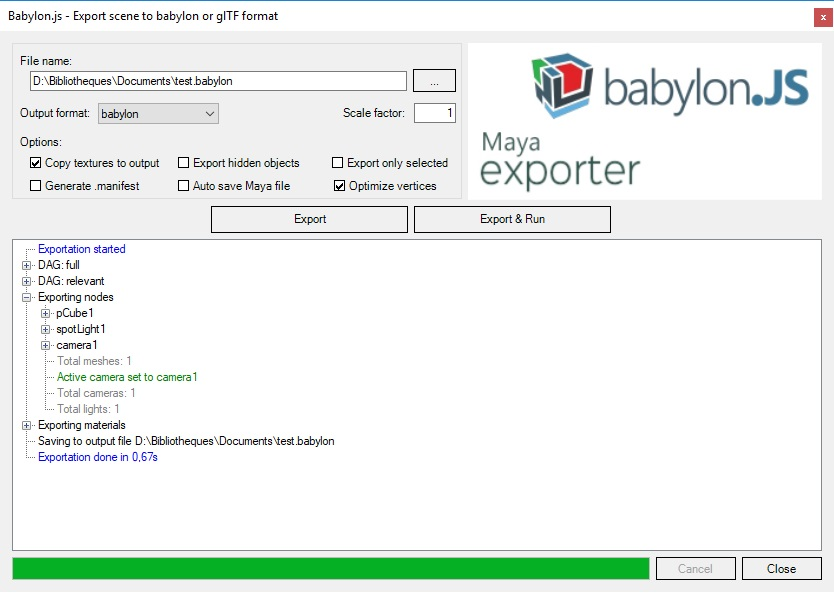
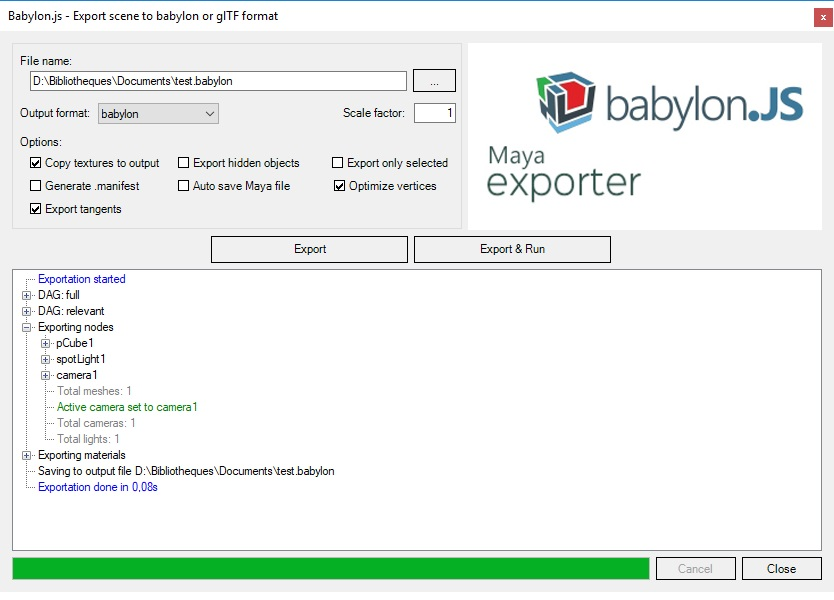
Update Maya exported features Add locator and group node sections

Changed region(s): [[0.2494, 0.09, 0.9664, 0.45], [0.0312, 0.39, 0.4053, 0.84], [0.0312, 0.33, 0.1559, 0.36]]

diff --git a/content/resources/Exporter/Maya.md b/content/resources/Exporter/Maya.md
@@ -4,7 +4,7 @@ The plug-in is designed for Maya 2018. This guide is about the Windows version (
 
 ![github](/img/exporters/Maya/1_github.jpg)
 
-In this folder, you can find the source code of the exporter if you want to update it, and a zip file _Maya2Babylon-XX.zip_ (where XX is the exporter version, currently v0.1). Click on the zip file, and click on the _Download_ button. 
+In this folder, you can find the source code of the exporter if you want to update it, and a zip file _Maya2Babylon-XX.zip_ (where XX is the exporter version, currently v1.0.7). Click on the zip file, and click on the _Download_ button. 
 
 ![github download](/img/exporters/Maya/2_github_dl.jpg)
 
@@ -29,7 +29,7 @@ Congratulations! You did it!
 * _Meshes_
     * Visibility
     * Position / rotation / scaling
-    * Geometry (position, normal, texture coordinates (2 channels))
+    * Geometry (position, normal, tangent, texture coordinates (2 channels))
 
 * _Materials_
     * Standard materials (Lambert, Phong, PhongE and Blinn)
@@ -39,7 +39,7 @@ Congratulations! You did it!
         * Bump mapping
         * Specular color and power
         * Reflected color
-    * PBR materials (Stingray PBS)
+    * PBR materials (Stingray PBS, AiStandardSurface)
         * Base color & opacity
         * Normal
         * Metallic
@@ -50,7 +50,8 @@ Congratulations! You did it!
 * _Textures_
     * UV offset / scaling / angle
     * Level
-    * Wrapping (Clamp, mirror, wrap)
+    * Coordinates mode (spherical, planar, explicit)
+    * Wrapping (clamp, mirror, wrap)
 
 * _Cameras_
     * Fov
@@ -98,6 +99,14 @@ If you have more than one camera, the first one will be set as activeCamera in B
 ## Light
 
 If you don’t have any lights in your scene, the exporter will add an ambient light by default. The log panel will display the warning “No light defined – A default ambient light was added for your convenience”. 
+
+## Locator
+
+If you want to have a point in space used only for its transform attributes you can use a Locator. For example, a target camera naturally comes with a locator to indicate the position to look at. They can also be used as parent node when updating the scene at runtime with the Babylon engine.
+
+## Group node
+
+A group node is exported as a dummy, a mesh without vertices, just like a locator. However, only group nodes used as parent for other nodes are exported. If you have an empty group node, you should probably switch to a locator instead or it will be ignored.
 
 ## Textures and intermediate nodes
 

diff --git a/content/resources/Exporter/Maya_to_glTF.md b/content/resources/Exporter/Maya_to_glTF.md
@@ -22,7 +22,7 @@ Since the plugin first exports to babylon then converts it to glTF, glTF feature
 * _Meshes_
     * Visibility
     * Position / rotation / scaling
-    * Geometry (position, normal, texture coordinates (2 channels))
+    * Geometry (position, normal, tangent, texture coordinates (2 channels))
 
 * _Nodes_
     * Hierarchy
@@ -34,7 +34,7 @@ Since the plugin first exports to babylon then converts it to glTF, glTF feature
         * Transparency
         * Bump mapping
         * Specular color and power
-    * PBR materials (Stingray PBS)
+    * PBR materials (Stingray PBS, AiStandardSurface)
         * Base color & opacity
         * Normal
         * Metallic
@@ -43,6 +43,7 @@ Since the plugin first exports to babylon then converts it to glTF, glTF feature
     * Multi-materials
 
 * _Textures_
+    * Wrap mode (clamp, mirror, repeat)
     * magFilter, minFilter
     * Image format conversion to jpg / png
 
